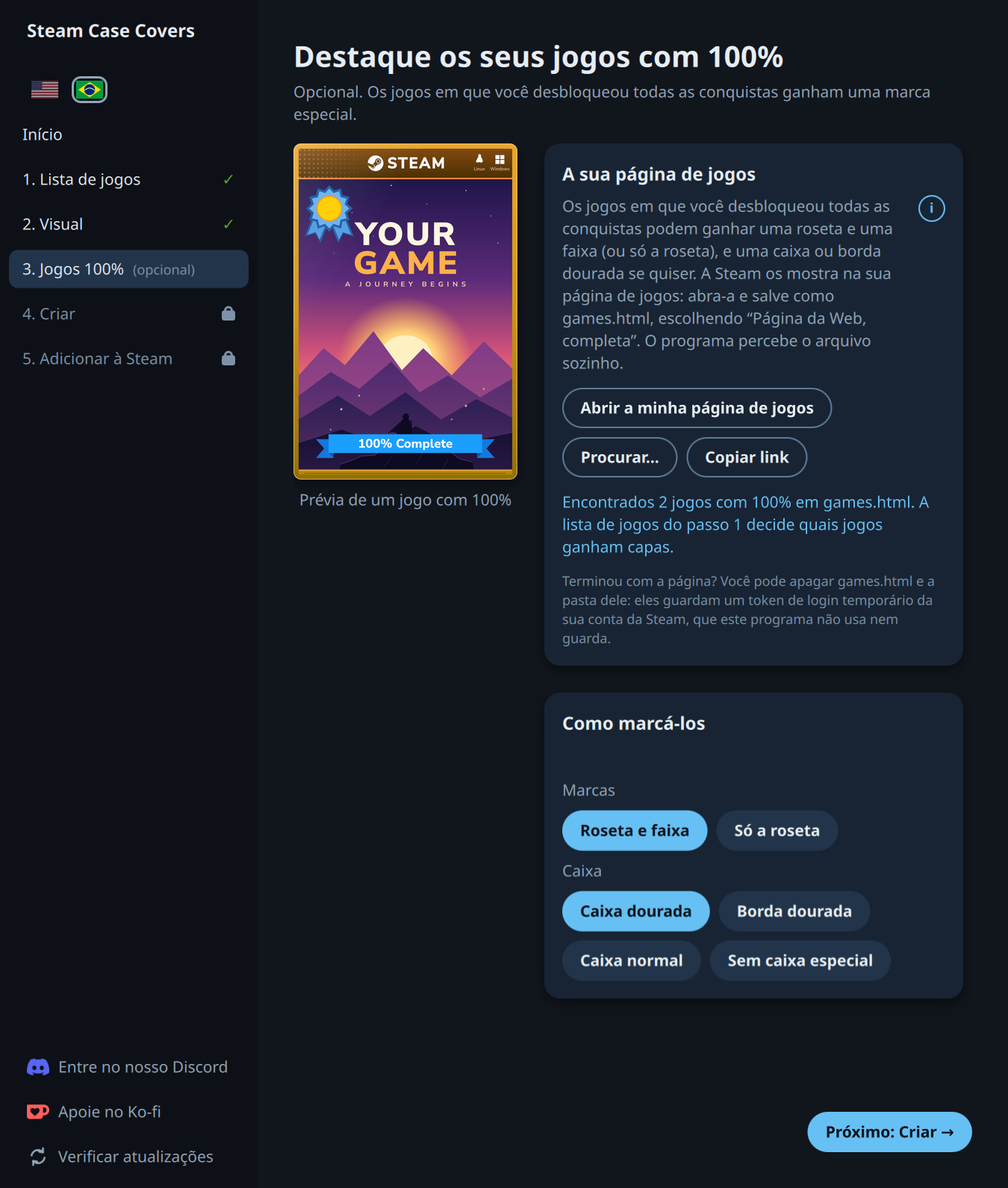
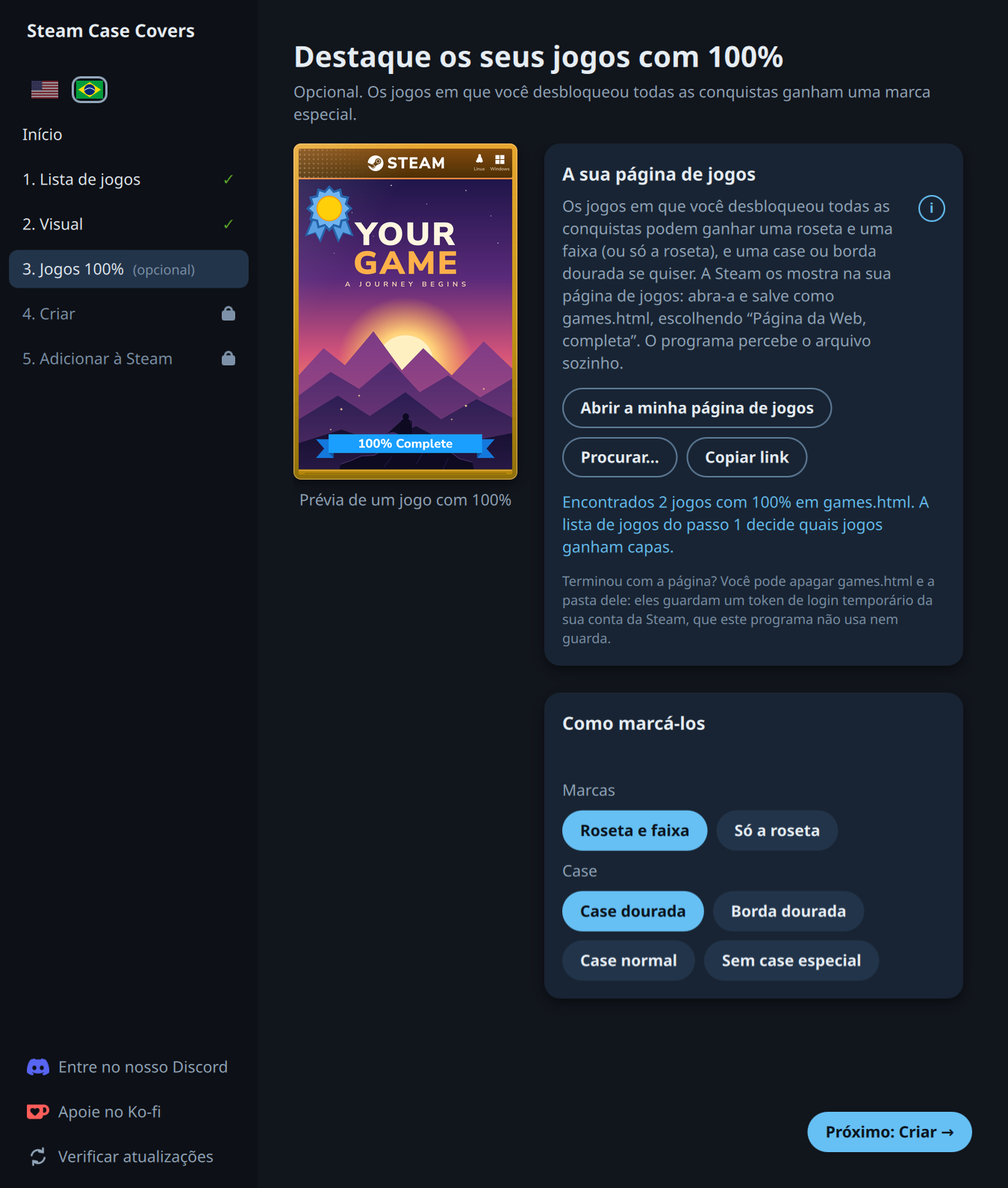
fix(i18n): the program's Brazilian Portuguese says case instead of caixa, and the README follows

diff --git a/qtui/i18n_pt_br.py b/qtui/i18n_pt_br.py
@@ -67,7 +67,7 @@ PT_BR = {
     "Blue": "Azul",
     "Gold": "Dourado",
     "custom colour": "cor personalizada",
-    "Steam case, ": "Caixa da Steam, ",
+    "Steam case, ": "Case da Steam, ",
     "JSON files": "Arquivos JSON",
     "No games page loaded. Your covers keep the look they have.": "Nenhuma página de jogos carregada. As suas capas mantêm o visual que têm.",
     "Highlight them": "Destacar",
@@ -101,7 +101,7 @@ PT_BR = {
     "%n cover ready.|%n covers ready.": "%n capa pronta.|%n capas prontas.",
     "%n game has no portrait on Steam.|%n games have no portrait on Steam.": "%n jogo não tem capa na Steam.|%n jogos não têm capa na Steam.",
     "%n of them is a family game and has a green corner.|%n of them are family games and have a green corner.": "%n deles é um jogo da família e ganhou um canto verde.|%n deles são jogos da família e ganharam um canto verde.",
-    "%n of them is in a console case.|%n of them are in a console case.": "%n deles está em uma caixa de console.|%n deles estão em uma caixa de console.",
+    "%n of them is in a console case.|%n of them are in a console case.": "%n deles está em uma case de console.|%n deles estão em uma case de console.",
     "%n of them is 100% and is highlighted.|%n of them are 100% and are highlighted.": "%n deles está com 100% e está destacado.|%n deles estão com 100% e estão destacados.",
     "Skipped %n item that isn't a game you can play (DLC, soundtracks, tools, and apps Steam no longer lists).|Skipped %n items that aren't games you can play (DLC, soundtracks, tools, and apps Steam no longer lists).": "%n item ignorado, que não é um jogo que você possa jogar (DLC, trilhas sonoras, ferramentas e programas que a Steam não lista mais).|%n itens ignorados, que não são jogos que você possa jogar (DLC, trilhas sonoras, ferramentas e programas que a Steam não lista mais).",
     "%n could not be downloaded (connection problem?): click “Make again” to retry only that one.|%n could not be downloaded (connection problem?): click “Make again” to retry only those.": "%n não pôde ser baixado (problema de conexão?): clique em “Criar de novo” para tentar só esse.|%n não puderam ser baixados (problema de conexão?): clique em “Criar de novo” para tentar só esses.",
@@ -110,14 +110,14 @@ PT_BR = {
     "Installed games": "Jogos instalados",
     "Skipped": "Ignorado",
     "Steam's art": "Arte da Steam",
-    "Classic case": "Caixa clássica",
+    "Classic case": "Case clássica",
     "Looking for your own art…": "Procurando a sua própria arte…",
     "Looking up your games on Steam…": "Consultando os seus jogos na Steam…",
     "Stopped.": "Interrompido.",
     "Done.": "Pronto.",
     "Your game list": "A sua lista de jogos",
     "Not chosen yet": "Ainda não escolhida",
-    "No special case": "Sem caixa especial",
+    "No special case": "Sem case especial",
     "Games": "Jogos",
     "Colour": "Cor",
     "Theme": "Tema",
@@ -130,7 +130,7 @@ PT_BR = {
     "Left plain": "Deixados simples",
     "Highlighted": "Destacados",
     "%n game|%n games": "%n jogo|%n jogos",
-    "Cases": "Caixas",
+    "Cases": "Cases",
     "No games found. Install a game first, or load your userdata.json.": "Nenhum jogo encontrado. Instale um jogo primeiro ou carregue o seu userdata.json.",
     "Could not save your groups": "Não foi possível salvar os seus grupos",
     "Could not open the folder. It is here: %s": "Não foi possível abrir a pasta. Ela está aqui: %s",
@@ -144,21 +144,21 @@ PT_BR = {
     "Could not reach Steam's servers: %s.": "Não foi possível alcançar os servidores da Steam: %s.",
     "Some names could not be loaded (connection problem?), so those games are missing.": "Alguns nomes não puderam ser carregados (problema de conexão?), então esses jogos estão faltando.",
     "%n game.|%n games.": "%n jogo.|%n jogos.",
-    "Gold case": "Caixa dourada",
+    "Gold case": "Case dourada",
     "Gold border": "Borda dourada",
-    "Normal case": "Caixa normal",
+    "Normal case": "Case normal",
     "Rosette and ribbon": "Roseta e faixa",
     "Rosette only": "Só a roseta",
     "Replace the covers you made?": "Substituir as capas que você fez?",
-    "This replaces %n cover you already made with a new one in the case you picked.|This replaces %n covers you already made with new ones in the cases you picked.": "Isso substitui %n capa que você já fez por uma nova na caixa que você escolheu.|Isso substitui %n capas que você já fez por novas nas caixas que você escolheu.",
+    "This replaces %n cover you already made with a new one in the case you picked.|This replaces %n covers you already made with new ones in the cases you picked.": "Isso substitui %n capa que você já fez por uma nova na case que você escolheu.|Isso substitui %n capas que você já fez por novas nas cases que você escolheu.",
     "Repaint your groups?": "Repintar os seus grupos?",
     "the covers of your 100% games are made again as normal covers": "as capas dos seus jogos com 100% são refeitas como capas normais",
     "Use your own art?": "Usar a sua própria arte?",
     "The covers you already made for games with your own art are made again with that art inside.": "As capas que você já fez dos jogos com arte sua são refeitas com essa arte dentro.",
     "Go back to Steam's art?": "Voltar à arte da Steam?",
     "The covers you made with your own art are made again with Steam's own art.": "As capas que você fez com a sua própria arte são refeitas com a arte da própria Steam.",
-    " The covers of your 100%% games lose their ribbon: the %s case shows the rosette only. To get it back later, choose the Classic case, load your games page and pick “Rosette and ribbon”.": " As capas dos seus jogos com 100%% perdem a faixa: a caixa %s mostra só a roseta. Para ter a faixa de volta depois, escolha a caixa Clássica, carregue a sua página de jogos e escolha “Roseta e faixa”.",
-    "the Classic case": "a caixa Clássica",
+    " The covers of your 100%% games lose their ribbon: the %s case shows the rosette only. To get it back later, choose the Classic case, load your games page and pick “Rosette and ribbon”.": " As capas dos seus jogos com 100%% perdem a faixa: a case %s mostra só a roseta. Para ter a faixa de volta depois, escolha a case Clássica, carregue a sua página de jogos e escolha “Roseta e faixa”.",
+    "the Classic case": "a case Clássica",
     "Change the theme of your covers?": "Mudar o tema das suas capas?",
     "Change the colour of your covers?": "Mudar a cor das suas capas?",
     "This replaces the covers you already made in another colour.": "Isso substitui as capas que você já fez em outra cor.",
@@ -173,7 +173,7 @@ PT_BR = {
     "This replaces the covers you already made in another colour, and %s.%s": "Isso substitui as capas que você já fez em outra cor, e %s.%s",
     "%s All your covers are also made in %s.": "%s Todas as suas capas também são feitas em %s.",
     "This replaces the covers you already made in another colour or theme.%s": "Isso substitui as capas que você já fez em outra cor ou tema.%s",
-    "You chose “No special case”: ": "Você escolheu “Sem caixa especial”: ",
+    "You chose “No special case”: ": "Você escolheu “Sem case especial”: ",
     "the covers of your 100%% games made with another look are made again as “%s”": "as capas dos seus jogos com 100%% feitas com outro visual são refeitas como “%s”",
     "Change the look of your 100% games?": "Mudar o visual dos seus jogos com 100%?",
     "your 100% covers are updated to match your games page": "as suas capas com 100% são atualizadas para combinar com a sua página de jogos",
@@ -191,7 +191,7 @@ PT_BR = {
     "4. Make": "4. Criar",
     "5. Add to Steam": "5. Adicionar à Steam",
     "2. Games": "2. Jogos",
-    "3. Case": "3. Caixa",
+    "3. Case": "3. Case",
     "4. 100% games": "4. Jogos 100%",
     "5. Make": "5. Criar",
     "6. Add to Steam": "6. Adicionar à Steam",
@@ -260,7 +260,7 @@ PT_BR = {
     "%d cover files are missing (deleted since they were made). Click “Make covers” again. Nothing was changed.": "%d arquivos de capa estão faltando (apagados depois de criados). Clique em “Criar capas” de novo. Nada foi alterado.",
     "That folder is not a steamcase backup: %s": "Essa pasta não é um backup do steamcase: %s",
     "The backup's manifest is damaged.": "O manifesto do backup está danificado.",
-    "The %s theme only goes with the rosette-only marks (--completed-marks rosette): the ribbon would hide the decorations. To use the full marks, make the classic case instead (--theme classic).": "O tema %s só combina com as marcas só de roseta (--completed-marks rosette): a faixa esconderia as decorações. Para usar as marcas completas, crie a caixa clássica (--theme classic).",
+    "The %s theme only goes with the rosette-only marks (--completed-marks rosette): the ribbon would hide the decorations. To use the full marks, make the classic case instead (--theme classic).": "O tema %s só combina com as marcas só de roseta (--completed-marks rosette): a faixa esconderia as decorações. Para usar as marcas completas, crie a case clássica (--theme classic).",
     "The covers in %s are in more than one colour (a colour change was probably interrupted). Nothing was changed. Run make again with the colour you want (--hue, --saturation, --brightness) to finish it, then apply.": "As capas em %s estão em mais de uma cor (uma mudança de cor provavelmente foi interrompida). Nada foi alterado. Rode make de novo com a cor que você quer (--hue, --saturation, --brightness) para terminar, depois aplique.",
     "The covers in %s are in more than one theme (a theme change was probably interrupted). Nothing was changed. Run make again with the theme you want (--theme classic or --theme halloween) to finish it, then apply.": "As capas em %s estão em mais de um tema (uma mudança de tema provavelmente foi interrompida). Nada foi alterado. Rode make de novo com o tema que você quer (--theme classic ou --theme halloween) para terminar, depois aplique.",
     "Cancelled.": "Cancelado.",
@@ -289,19 +289,19 @@ PT_BR = {
     "Applying…": "Aplicando…",
     "Go to Home →": "Ir para o Início →",
     "Apply to Steam": "Aplicar na Steam",
-    "Pick a case": "Escolha uma caixa",
-    "Pick the case for the games you ticked. You can do this again for other games, or go on.": "Escolha a caixa dos jogos que você marcou. Você pode repetir para outros jogos, ou seguir em frente.",
+    "Pick a case": "Escolha uma case",
+    "Pick the case for the games you ticked. You can do this again for other games, or go on.": "Escolha a case dos jogos que você marcou. Você pode repetir para outros jogos, ou seguir em frente.",
     "Your groups": "Os seus grupos",
-    "The app remembers your groups. Pick one to add the games you ticked to it, or pick a case above for a new group.": "O programa lembra dos seus grupos. Escolha um para colocar nele os jogos marcados, ou escolha uma caixa acima para um grupo novo.",
+    "The app remembers your groups. Pick one to add the games you ticked to it, or pick a case above for a new group.": "O programa lembra dos seus grupos. Escolha um para colocar nele os jogos marcados, ou escolha uma case acima para um grupo novo.",
     "Delete group": "Apagar grupo",
     "Name your group": "Dê um nome ao grupo",
     "Name this group": "Dê um nome a este grupo",
     "Name of this group": "Nome deste grupo",
     "Your games": "Os seus jogos",
     "Applies to %n ticked game.|Applies to %n ticked games.": "Vale para %n jogo marcado.|Vale para %n jogos marcados.",
-    "No games are ticked now. Pick more games to give them a case, or go on.": "Nenhum jogo está marcado agora. Escolha mais jogos para dar uma caixa a eles, ou siga em frente.",
+    "No games are ticked now. Pick more games to give them a case, or go on.": "Nenhum jogo está marcado agora. Escolha mais jogos para dar uma case a eles, ou siga em frente.",
     "Add %n game to %1|Add %n games to %1": "Adicionar %n jogo a %1|Adicionar %n jogos a %1",
-    "Use this case for %n game|Use this case for %n games": "Usar esta caixa em %n jogo|Usar esta caixa em %n jogos",
+    "Use this case for %n game|Use this case for %n games": "Usar esta case em %n jogo|Usar esta case em %n jogos",
     "Pick more games": "Escolher mais jogos",
     "Options": "Opções",
     "Mark family games with a green corner": "Marcar os jogos da família com um canto verde",
@@ -322,28 +322,28 @@ PT_BR = {
     "JSON files (*.json)": "Arquivos JSON (*.json)",
     "All files (*)": "Todos os arquivos (*)",
     "Pick your games": "Escolha os seus jogos",
-    "Tick the games that get a case. Games you do not tick are left alone.": "Marque os jogos que ganham uma caixa. Os jogos que você não marcar ficam como estão.",
+    "Tick the games that get a case. Games you do not tick are left alone.": "Marque os jogos que ganham uma case. Os jogos que você não marcar ficam como estão.",
     "Find games": "Encontrar jogos",
     "Search by name…": "Pesquisar pelo nome…",
     "Search your games by name": "Pesquise os seus jogos pelo nome",
     "%n game selected|%n games selected": "%n jogo selecionado|%n jogos selecionados",
     "Select all shown": "Selecionar todos os mostrados",
     "Clear": "Limpar",
-    "Next: Case →": "Próximo: Caixa →",
+    "Next: Case →": "Próximo: Case →",
     "Done": "Pronto",
     "Next": "Próximo",
     "Open": "Aberto",
     "Locked": "Bloqueado",
     "Welcome back": "Bem-vindo de volta",
-    "Cases for your games": "Caixas para os seus jogos",
+    "Cases for your games": "Cases para os seus jogos",
     "Pick up where you left off.": "Continue de onde parou.",
-    "Give every game in your Steam library a case, in about five minutes.": "Dê uma caixa a cada jogo da sua biblioteca da Steam, em uns cinco minutos.",
+    "Give every game in your Steam library a case, in about five minutes.": "Dê uma case a cada jogo da sua biblioteca da Steam, em uns cinco minutos.",
     "Your progress": "O seu progresso",
     "Step by step": "Passo a passo",
     "Five short steps, nothing to install or run: get your game list, choose the look, optionally highlight your 100% games, make the covers, and add them to Steam.": "Cinco passos curtos, sem nada para instalar ou executar: pegue a sua lista de jogos, escolha o visual, destaque os seus jogos com 100% (opcional), crie as capas e adicione-as à Steam.",
     "Pick games by hand": "Escolher jogos à mão",
-    "You are choosing games and cases by hand. Go back to the step by step way to give every game the same case.": "Você está escolhendo jogos e caixas à mão. Volte ao passo a passo para dar a mesma caixa a todos os jogos.",
-    "Choose games and put them in PlayStation, Xbox or Nintendo cases.": "Escolha jogos e coloque-os em caixas de PlayStation, Xbox ou Nintendo.",
+    "You are choosing games and cases by hand. Go back to the step by step way to give every game the same case.": "Você está escolhendo jogos e cases à mão. Volte ao passo a passo para dar a mesma case a todos os jogos.",
+    "Choose games and put them in PlayStation, Xbox or Nintendo cases.": "Escolha jogos e coloque-os em cases de PlayStation, Xbox ou Nintendo.",
     "Back to step by step": "Voltar ao passo a passo",
     "Undo": "Desfazer",
     "Reset leaves the covers of these groups on Steam. Tick a group to reset it too. That deletes the group.": "Redefinir deixa na Steam as capas destes grupos. Marque um grupo para redefini-lo também. Isso apaga o grupo.",
@@ -353,20 +353,20 @@ PT_BR = {
     "Optional. Games where you unlocked every achievement get a special mark.": "Opcional. Os jogos em que você desbloqueou todas as conquistas ganham uma marca especial.",
     "Preview of a 100% game": "Prévia de um jogo com 100%",
     "Your games page": "A sua página de jogos",
-    "Games where you unlocked every achievement can get a rosette and a ribbon (or the rosette alone), and a gold case or border if you like. Steam shows them on your games page: open it, then save it as games.html, choosing “Webpage, Complete”. The app notices the file by itself.": "Os jogos em que você desbloqueou todas as conquistas podem ganhar uma roseta e uma faixa (ou só a roseta), e uma caixa ou borda dourada se quiser. A Steam os mostra na sua página de jogos: abra-a e salve como games.html, escolhendo “Página da Web, completa”. O programa percebe o arquivo sozinho.",
+    "Games where you unlocked every achievement can get a rosette and a ribbon (or the rosette alone), and a gold case or border if you like. Steam shows them on your games page: open it, then save it as games.html, choosing “Webpage, Complete”. The app notices the file by itself.": "Os jogos em que você desbloqueou todas as conquistas podem ganhar uma roseta e uma faixa (ou só a roseta), e uma case ou borda dourada se quiser. A Steam os mostra na sua página de jogos: abra-a e salve como games.html, escolhendo “Página da Web, completa”. O programa percebe o arquivo sozinho.",
     "Open my games page": "Abrir a minha página de jogos",
     "How to mark them": "Como marcá-los",
     "Load your games page first.": "Carregue primeiro a sua página de jogos.",
     "Marks": "Marcas",
     "Highlight": "Destaque",
-    "Case": "Caixa",
+    "Case": "Case",
     "Next: Make →": "Próximo: Criar →",
     "Skip this step →": "Pular este passo →",
     "Web pages (*.html *.htm)": "Páginas da Web (*.html *.htm)",
     "More information": "Mais informações",
     "Choose the look": "Escolha o visual",
     "The preview changes as you pick.": "A prévia muda conforme você escolhe.",
-    "Case colour": "Cor da caixa",
+    "Case colour": "Cor da case",
     "Colourfulness": "Intensidade da cor",
     "Brightness": "Brilho",
     "Use my own custom art where I have it": "Usar a minha própria arte onde eu tiver",
@@ -393,11 +393,11 @@ PT_BR = {
     "Replace them": "Substituí-las",
     ", locked": ", bloqueado",
     ", done": ", concluído",
-    "Put every game in a physical case": "Coloque cada jogo em uma caixa física",
+    "Put every game in a physical case": "Coloque cada jogo em uma case física",
     "Coming soon": "Em breve",
     "This screen is built in a later plan.": "Esta tela será feita em um plano futuro.",
     "Games shared with you through Steam Family Sharing are in your library, but they are not on your own game list and are often not installed. With this switch on, only games installed on this computer get covers, so shared games that are not installed are left out. To include them, turn this off and load your game list: the app then finds the shared games in Steam's own files and marks their covers with a green corner.": "Os jogos compartilhados com você pelo Compartilhamento em Família da Steam estão na sua biblioteca, mas não estão na sua lista de jogos e muitas vezes não estão instalados. Com esta chave ligada, só os jogos instalados neste computador ganham capas, então os jogos compartilhados que não estão instalados ficam de fora. Para incluí-los, desligue isto e carregue a sua lista de jogos: o programa então encontra os jogos compartilhados nos próprios arquivos da Steam e marca as capas deles com um canto verde.",
     "Some games, mostly older or small ones, have no real portrait on Steam. Steam builds a stand-in from the wide header image: the title banner sits in the middle of a blurred, stretched copy of itself, with lots of empty space. Tick this to skip those games and keep Steam's default art for them.": "Alguns jogos, em geral os mais antigos ou pequenos, não têm uma capa de verdade na Steam. A Steam monta uma no lugar a partir da imagem larga do cabeçalho: o banner com o título fica no meio de uma cópia borrada e esticada dele mesmo, com muito espaço vazio. Marque isto para pular esses jogos e manter a arte padrão da Steam para eles.",
-    "For games where you set your own art (in Steam's menu or from SteamGridDB), your art goes inside the case instead of Steam's. The app keeps a copy of it in its own folder and never changes your files. Games without art of your own use Steam's.": "Para os jogos em que você definiu a sua própria arte (no menu da Steam ou pelo SteamGridDB), a sua arte vai dentro da caixa no lugar da arte da Steam. O programa guarda uma cópia dela na própria pasta e nunca altera os seus arquivos. Jogos sem arte sua usam a da Steam.",
+    "For games where you set your own art (in Steam's menu or from SteamGridDB), your art goes inside the case instead of Steam's. The app keeps a copy of it in its own folder and never changes your files. Games without art of your own use Steam's.": "Para os jogos em que você definiu a sua própria arte (no menu da Steam ou pelo SteamGridDB), a sua arte vai dentro da case no lugar da arte da Steam. O programa guarda uma cópia dela na própria pasta e nunca altera os seus arquivos. Jogos sem arte sua usam a da Steam.",
     "How to save the page: open it with the button and log in if asked. Wait until your games have loaded, press %s and save it as “Webpage, Complete” (Chrome or Firefox), named games.html. Your browser also saves a folder next to it.\n\nThe saved file contains a temporary login token for your Steam account. This app only reads which games are at 100%%: it does not use or keep the token. You can delete the file and its folder afterwards.": "Como salvar a página: abra-a com o botão e entre, se pedir. Espere os seus jogos carregarem, aperte %s e salve como “Página da Web, completa” (Chrome ou Firefox), com o nome games.html. O seu navegador também salva uma pasta ao lado.\n\nO arquivo salvo contém um token de login temporário da sua conta da Steam. Este programa só lê quais jogos estão com 100%%: ele não usa nem guarda o token. Você pode apagar o arquivo e a pasta depois.",
 }

diff --git a/tests/test_i18n.py b/tests/test_i18n.py
@@ -114,6 +114,9 @@ class Table(unittest.TestCase):
     def test_the_table_has_nothing_left_over_from_texts_that_are_gone(self):
         self.assertEqual(sorted(k[:70] for k in self.table if k not in self.keys), [])
 
+    def test_the_portuguese_says_case_not_caixa(self):
+        self.assertEqual(sorted(k[:50] for k, v in self.table.items() if "caixa" in v.lower()), [])      # the project calls a case a "case" in Portuguese
+
     def test_placeholders_and_plural_forms_match_the_english(self):
         import re
         for key, text in self.table.items():

diff --git a/README.pt-BR.md b/README.pt-BR.md
@@ -93,7 +93,7 @@ O suporte ao macOS é **no melhor esforço**: o autor só testou num MacBook Air
 <details>
 <summary><b>Linux e Steam Deck</b></summary>
 
-No Steam Deck, mude primeiro para o **Modo Desktop**. O programa precisa de uma janela de desktop, pois ele não roda no Modo Jogo.
+No Steam Deck, mude primeiro para o **Modo Desktop**. O programa precisa de uma janela de desktop, e por isso ele não roda no Modo Jogo.
 
 Baixe o `SteamCaseCovers-linux` na [página de Releases](https://github.com/diegobergonsi/steam-case-covers/releases/latest) e abra. No Steam Deck aparece um pequeno aviso: clique em **Launch** e o programa abre.
 
@@ -167,7 +167,7 @@ O passo 3, **Destaque os seus jogos com 100%**, é opcional. Os jogos em que voc
 1. Clique em **Abrir a minha página de jogos** (ou **Copiar link**). O navegador abre a sua página de jogos da Steam, ordenada por conquistas. Entre na sua conta se pedir e espere os seus jogos carregarem.
 2. Salve ela (Ctrl+S, ou Cmd+S no Mac) como **"Página da Web, completa"** no Chrome ou no Firefox, com o nome `games.html`. O navegador também salva uma pasta ao lado. O programa percebe o arquivo na sua pasta Downloads sozinho, ou você pode clicar em **Procurar…** e escolhê-lo.
 3. Escolha o que esses jogos ganham: **Roseta e faixa** (a roseta no canto superior esquerdo e a faixa "100% Complete" embaixo; é o padrão) ou **Só a roseta** (só a roseta, sem faixa sobre a arte).
-4. Escolha como esses jogos ficam: **Caixa dourada** (a case inteira fica dourada), **Borda dourada** (uma borda dourada por fora da case, que fica cerca de 5% menor), **Caixa normal** (a sua case continua como está; é o padrão depois que uma página é carregada) ou **Sem caixa especial** (nenhum destaque, então as marcas não se aplicam). As opções só podem ser escolhidas depois que uma página é carregada. Depois clique em **Criar capas**.
+4. Escolha como esses jogos ficam: **Case dourada** (a case inteira fica dourada), **Borda dourada** (uma borda dourada por fora da case, que fica cerca de 5% menor), **Case normal** (a sua case continua como está; é o padrão depois que uma página é carregada) ou **Sem case especial** (nenhum destaque, então as marcas não se aplicam). As opções só podem ser escolhidas depois que uma página é carregada. Depois clique em **Criar capas**.
 
 > [!NOTE]
 > A página salva contém um token de login temporário da sua conta da Steam. O programa só lê quais jogos estão com 100%: ele nunca usa, guarda nem registra o token. Você pode apagar o `games.html` e a pasta dele depois que as capas estiverem criadas. O programa nunca apaga os seus arquivos sozinho.
@@ -327,7 +327,7 @@ A Steam monta essa página no seu navegador depois que ela carrega. "Página da 
 <details>
 <summary><b>Posso remover os destaques depois?</b></summary>
 
-Pode. Carregue uma página de novo (ou qualquer página), escolha **Sem caixa especial** e clique em **Criar capas**: o programa pergunta antes e refaz as capas destacadas como capas normais. Na linha de comando, use `--completed-style none`. Adicione as capas à Steam de novo no passo 5 para ver a mudança lá.
+Pode. Carregue uma página de novo (ou qualquer página), escolha **Sem case especial** e clique em **Criar capas**: o programa pergunta antes e refaz as capas destacadas como capas normais. Na linha de comando, use `--completed-style none`. Adicione as capas à Steam de novo no passo 5 para ver a mudança lá.
 
 </details>
 

diff --git a/docs/CHANGELOG.md b/docs/CHANGELOG.md
@@ -5,6 +5,7 @@ All notable changes. Versions follow [Semantic Versioning](https://semver.org); 
 ## [Unreleased]
 
 - Documentation: the README is also in Brazilian Portuguese (`README.pt-BR.md`), with screenshots of the program in Portuguese. Both READMEs start with two flags that switch between them.
+- The program's Brazilian Portuguese now says "case" instead of "caixa", like the README.
 
 ## [1.6.0] - 2026-11-03
 
